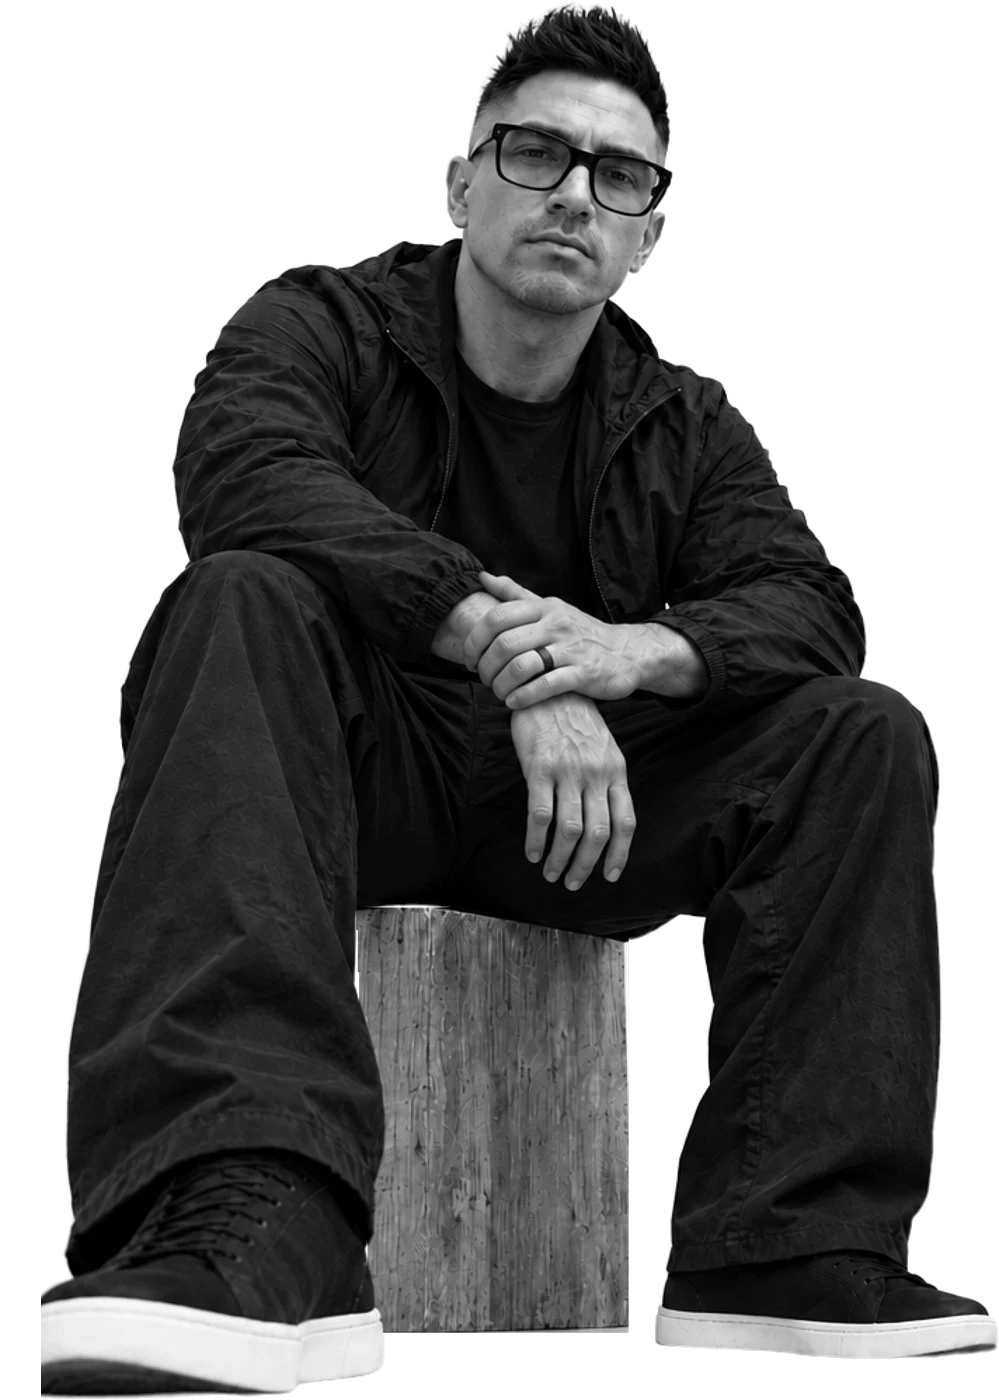
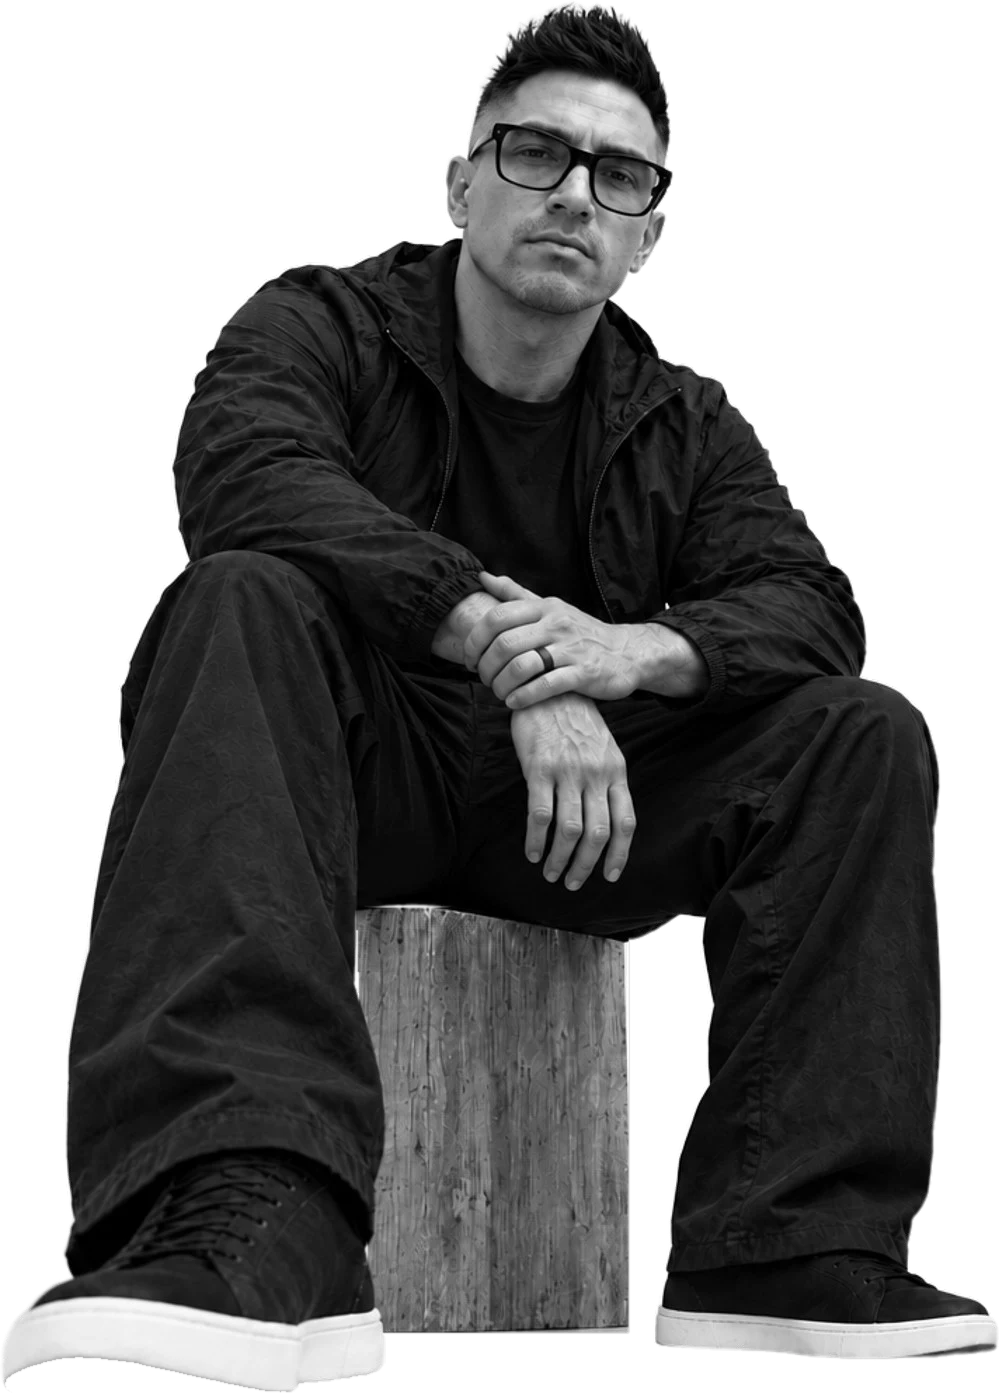
Address canvas comments: wordmark, background, shoe, nose, tagline
- CHARLIE is now solid ink with an ember motion echo; the record sleeves
  sit behind the letters so the C is no longer covered.
- Calmer BUILDER tunnel: solid tone-on-tone rows only, lighter halftone.
- Left sneaker: removed the floor shadow under the sole and restored the
  toe that the stray-speck cleanup had clipped.
- Cleaned the smudge under the nose.
- Tagline reads 'Founder of Sightbox®'.

Claude-Session: https://claude.ai/code/session_01W5NmLrmCfpinZRZs12n3aL

Changed region(s): [[0.0, 0.9214, 0.2793, 1.0]]

diff --git a/index.html b/index.html
@@ -53,22 +53,23 @@
   .hero { position: relative; margin: 8px; height: calc(100svh - 16px); min-height: 680px; max-height: 980px; border-radius: var(--r); overflow: hidden; background: var(--card); isolation: isolate; }
   .stage { position: absolute; inset: 0; transition: transform .7s var(--ease), filter .7s var(--ease); transform-origin: var(--ox, 50%) var(--oy, 20%); }
   .hero.warp .stage { transform: scale(7); filter: blur(6px) brightness(1.4); }
-  .halftone { position: absolute; inset: 0; z-index: 0; background: radial-gradient(rgba(15,15,14,.16) 1px, transparent 1.3px) 0 0 / 6px 6px; -webkit-mask: radial-gradient(ellipse at 50% 55%, transparent 25%, #000 85%); mask: radial-gradient(ellipse at 50% 55%, transparent 25%, #000 85%); }
+  .halftone { position: absolute; inset: 0; z-index: 0; background: radial-gradient(rgba(15,15,14,.07) 1px, transparent 1.3px) 0 0 / 6px 6px; -webkit-mask: radial-gradient(ellipse at 50% 55%, transparent 45%, #000 95%); mask: radial-gradient(ellipse at 50% 55%, transparent 45%, #000 95%); }
 
-  .tunnel { position: absolute; inset: 0; z-index: 1; perspective: 520px; pointer-events: none; }
-  .tunnel .plane { position: absolute; left: -30%; right: -30%; height: 52%; display: flex; flex-direction: column; justify-content: space-between; font-family: var(--display); font-size: clamp(64px, 9vw, 150px); line-height: .9; color: var(--tunnel); white-space: nowrap; text-align: center; letter-spacing: .01em; }
+  /* Calmer tunnel: solid tone-on-tone rows only, three per plane */
+  .tunnel { position: absolute; inset: 0; z-index: 0; perspective: 520px; pointer-events: none; }
+  .tunnel .plane { position: absolute; left: -30%; right: -30%; height: 52%; display: flex; flex-direction: column; justify-content: space-between; font-family: var(--display); font-size: clamp(64px, 9vw, 150px); line-height: .9; color: #e3e2de; white-space: nowrap; text-align: center; letter-spacing: .01em; }
   .tunnel .ceil { top: -6%; transform-origin: 50% 100%; transform: rotateX(-58deg); }
   .tunnel .floor { bottom: -6%; transform-origin: 50% 0; transform: rotateX(58deg); }
-  .tunnel .plane span:nth-child(odd) { color: transparent; -webkit-text-stroke: 1.5px #f6f5f2; }
+  .tunnel .plane span:nth-child(4) { display: none; }
 
-  .wordmark { position: absolute; z-index: 2; left: 0; right: 0; top: 47%; margin: 0; text-align: center; white-space: nowrap; font-family: var(--display); font-weight: 400; font-size: 26vw; line-height: .8; letter-spacing: .005em; transform: translateY(-50%) scaleY(1.12);
+  /* Solid ink wordmark with an ember motion echo trailing left (the Kinetic streak) */
+  .wordmark { position: absolute; z-index: 2; left: 0; right: 0; top: 47%; margin: 0; text-align: center; white-space: nowrap; font-family: var(--display); font-weight: 400; font-size: 24vw; line-height: .8; letter-spacing: .005em; transform: translateY(-50%) scaleY(1.12); pointer-events: none;
     color: var(--ink);
-    background: linear-gradient(rgba(15,15,14,.62), rgba(15,15,14,.82)), url(assets/builder-blur.jpg) 50% 50% / cover;
-    -webkit-background-clip: text; background-clip: text; -webkit-text-fill-color: transparent; }
+    text-shadow: -.05em 0 .06em rgba(242,84,27,.26), -.11em 0 .12em rgba(242,84,27,.13), -.18em 0 .2em rgba(242,84,27,.06); }
 
   /* Flying record sleeves (the music): blurred in flight, snap into focus on hover and
      slide their disc out; clicking drops the record on the deck below. */
-  .fly { position: absolute; z-index: 3; width: clamp(110px, 12vw, 190px); padding: 0; border: 0; background: none; cursor: pointer; isolation: isolate;
+  .fly { position: absolute; z-index: 1; width: clamp(110px, 12vw, 190px); padding: 0; border: 0; background: none; cursor: pointer; isolation: isolate;
     transition: filter .45s var(--ease), transform .45s var(--ease); --dir: 1; }
   .fly img { position: relative; z-index: 1; width: 100%; aspect-ratio: 1; object-fit: cover; border-radius: 4px; box-shadow: 0 30px 50px -20px rgba(0,0,0,.4); }
   .fly .disc { position: absolute; z-index: 0; inset: 3%; border-radius: 50%; transition: transform .5s var(--ease);
@@ -320,7 +321,7 @@
     .nav .pill.talk { display: none; }
     .hero { height: auto; max-height: none; min-height: 0; }
     .stage { position: relative; height: 132vw; max-height: 640px; }
-    .wordmark { top: 50%; font-size: 26vw; }
+    .wordmark { top: 50%; font-size: 24vw; }
     .figure { height: 74%; }
     .ghost { height: 70%; }
     .fly.a { top: 56%; left: 3%; }
@@ -401,7 +402,7 @@
   </div>
 
   <div class="intro">
-    <h2>Builder. Creative.<br><span class="mute">Founder of Sightbox Studios™</span></h2>
+    <h2>Builder. Creative.<br><span class="mute">Founder of Sightbox®</span></h2>
     <a class="pill light" href="#work"><span class="thumb" aria-hidden="true"></span>See the timeline</a>
     <div class="socials">
       <a class="circle" href="https://instagram.com/charliehinojosa" target="_blank" rel="noopener" aria-label="Instagram, @charliehinojosa">IG</a>
